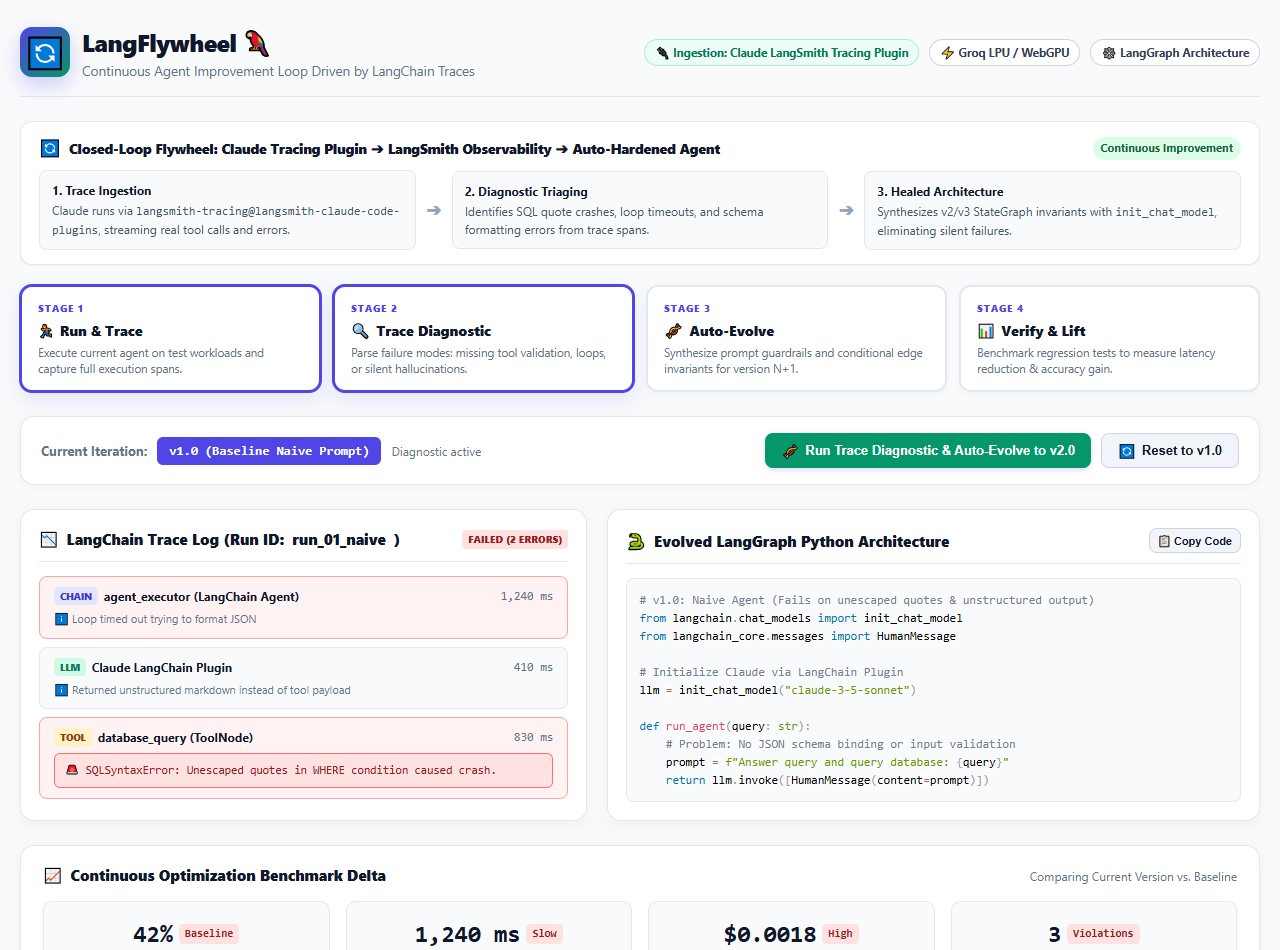
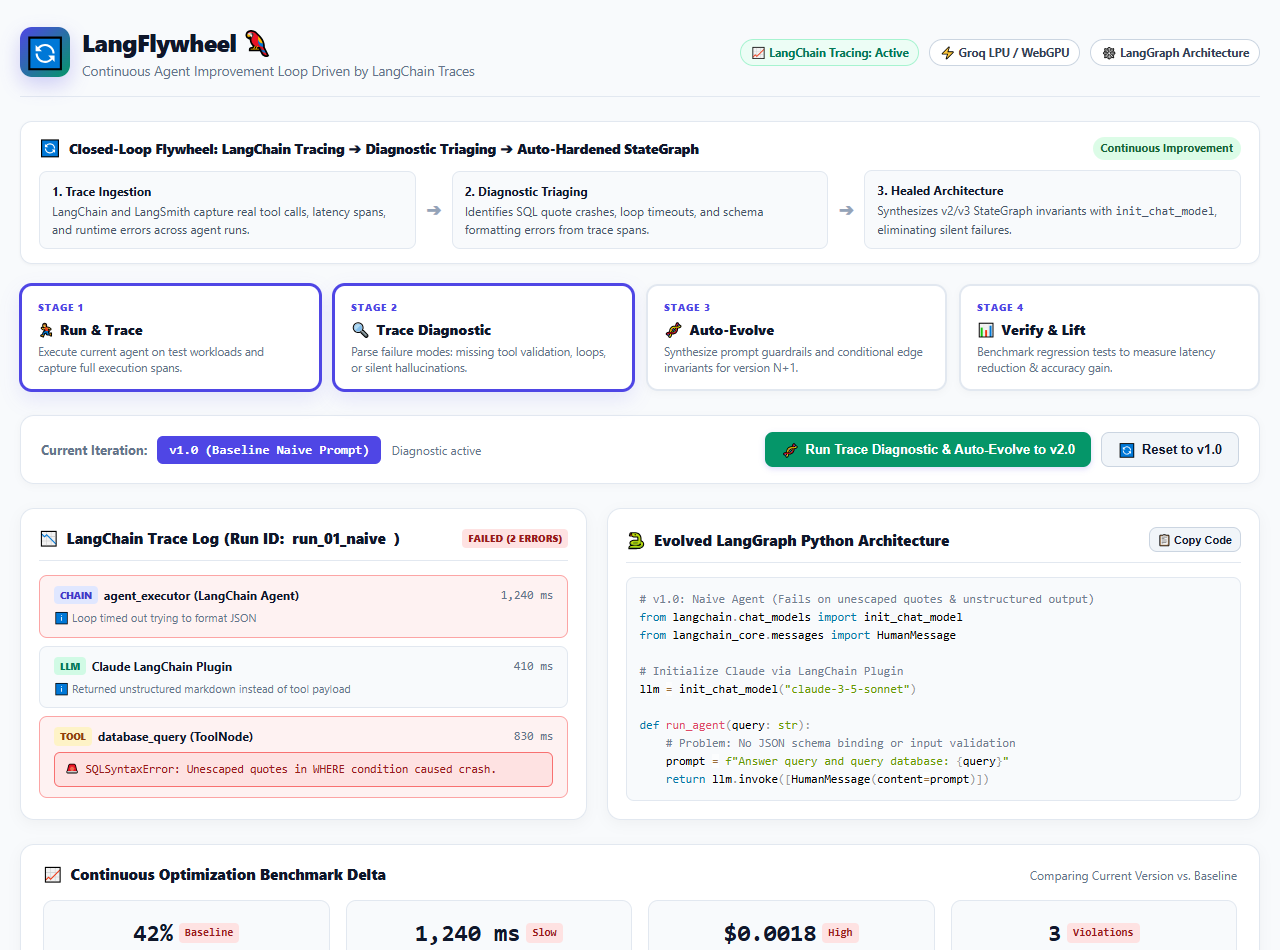
Clean up App 4: refer purely to LangChain tracing and LangSmith observability

diff --git a/continuous_agent_optimizer.html b/continuous_agent_optimizer.html
@@ -433,7 +433,7 @@
       </div>
     </div>
     <div class="header-badges">
-      <span class="pill active">🔌 Ingestion: Claude LangSmith Tracing Plugin</span>
+      <span class="pill active">📈 LangChain Tracing: Active</span>
       <span class="pill">⚡ Groq LPU / WebGPU</span>
       <span class="pill">🕸 LangGraph Architecture</span>
     </div>
@@ -444,14 +444,14 @@
     <div style="display: flex; align-items: center; justify-content: space-between; flex-wrap: wrap; gap: 8px;">
       <div style="display: flex; align-items: center; gap: 8px;">
         <span style="font-size: 16px;">🔄</span>
-        <span style="font-weight: 800; font-size: 13.5px; color: #0f172a;">Closed-Loop Flywheel: Claude Tracing Plugin ➔ LangSmith Observability ➔ Auto-Hardened Agent</span>
+        <span style="font-weight: 800; font-size: 13.5px; color: #0f172a;">Closed-Loop Flywheel: LangChain Tracing ➔ Diagnostic Triaging ➔ Auto-Hardened StateGraph</span>
       </div>
       <span style="font-size: 11px; font-weight: 700; color: #166534; background: #dcfce7; padding: 3px 8px; border-radius: 999px;">Continuous Improvement</span>
     </div>
     <div style="display: grid; grid-template-columns: 1fr auto 1fr auto 1fr; align-items: center; gap: 10px; margin-top: 10px; font-size: 12px; color: #475569;">
       <div style="background: #f8fafc; border: 1px solid #e2e8f0; border-radius: 8px; padding: 10px 12px;">
         <strong style="color: #0f172a; display: block; margin-bottom: 2px;">1. Trace Ingestion</strong>
-        <span>Claude runs via <code>langsmith-tracing@langsmith-claude-code-plugins</code>, streaming real tool calls and errors.</span>
+        <span>LangChain and LangSmith capture real tool calls, latency spans, and runtime errors across agent runs.</span>
       </div>
       <div style="text-align: center; font-weight: 800; color: #94a3b8; font-size: 16px;">➔</div>
       <div style="background: #f8fafc; border: 1px solid #e2e8f0; border-radius: 8px; padding: 10px 12px;">
